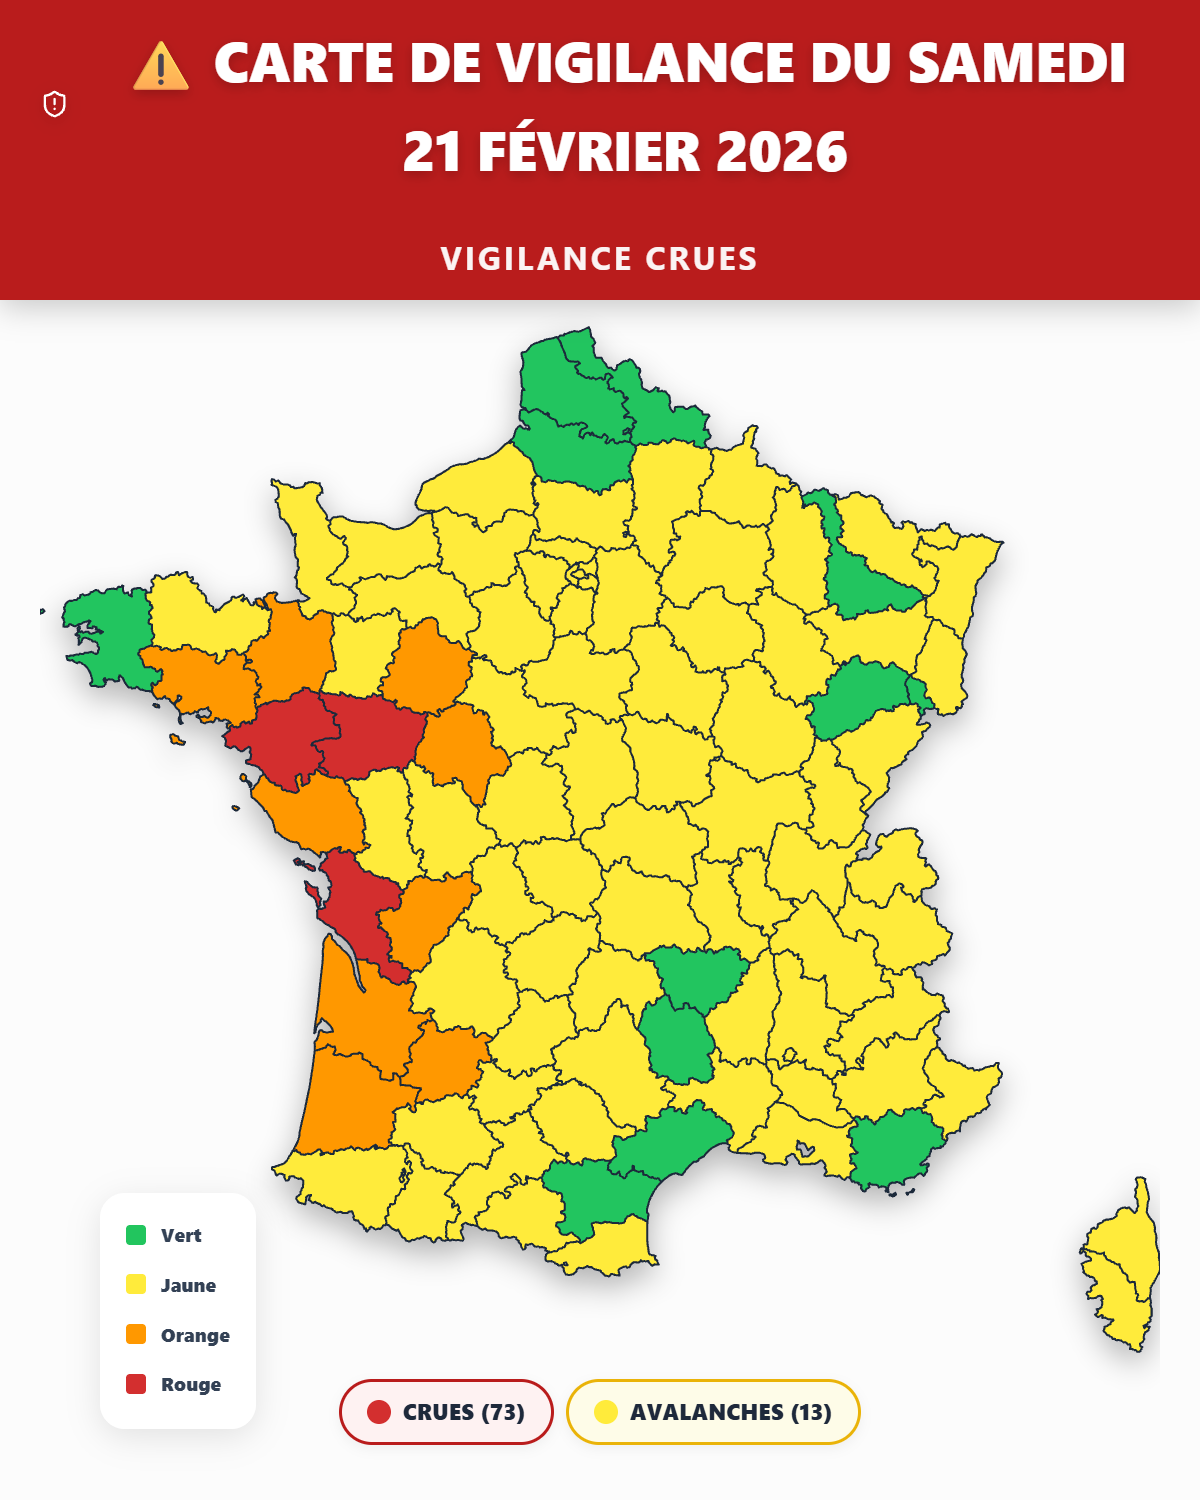
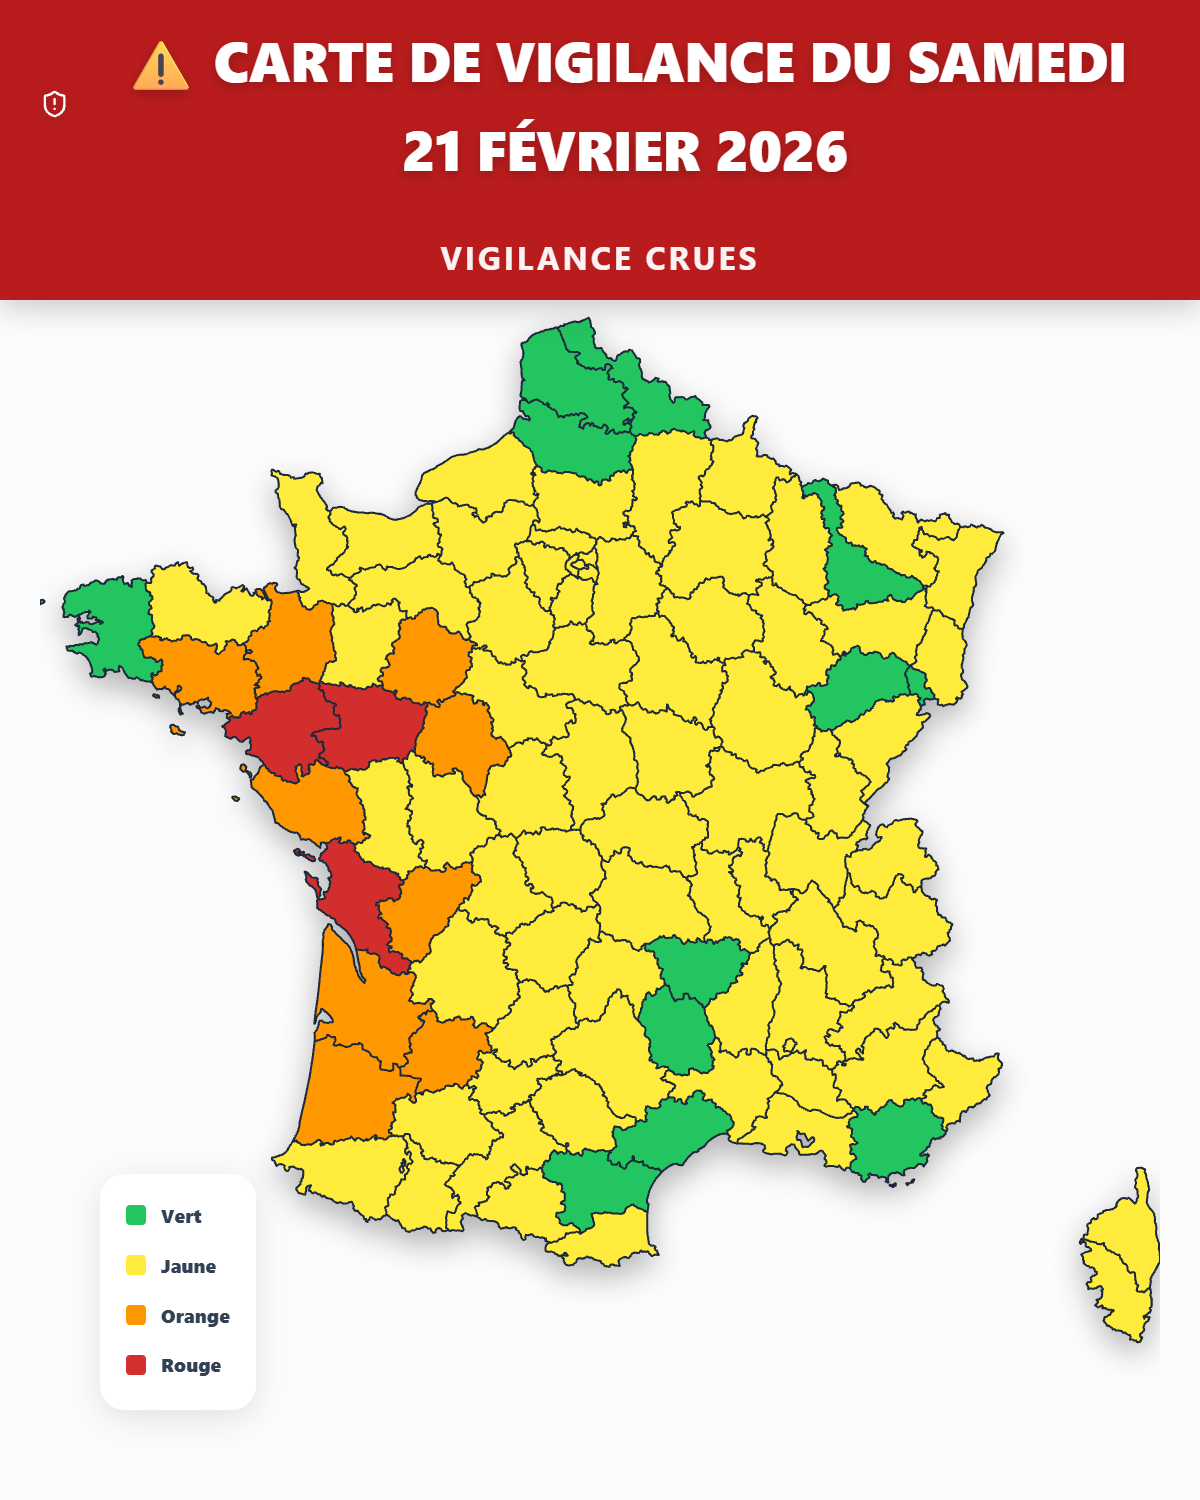
feat: add period URL param support and update bulletin header with date

diff --git a/src/modules/vigilance/VigilanceFrance.jsx b/src/modules/vigilance/VigilanceFrance.jsx
@@ -40,7 +40,11 @@ const VigilanceFrance = () => {
     const [geoData, setGeoData] = useState(null);
     const [loading, setLoading] = useState(true);
     const [selectedDep, setSelectedDep] = useState(null);
-    const [period, setPeriod] = useState(0);
+    const [period, setPeriod] = useState(() => {
+        const params = new URLSearchParams(window.location.search);
+        const p = params.get('period');
+        return p !== null ? parseInt(p) : 0;
+    });
     const [selectedPhenom, setSelectedPhenom] = useState(null);
     const [localData, setLocalData] = useState({ stations: [], obs: [] });
     const [localLoading, setLocalLoading] = useState(false);
@@ -199,7 +203,16 @@ const VigilanceFrance = () => {
             sections.push(`🟡 Vigilance JAUNE – ${yellowParts.join(", ")}.`);
         }
 
-        return sections.join("\n\n").trim();
+        const now = new Date();
+        const targetDate = new Date(now);
+        if (period === 1) targetDate.setDate(now.getDate() + 1);
+        const dateStr = targetDate.toLocaleDateString('fr-FR', {
+            weekday: 'long', day: 'numeric', month: 'long', year: 'numeric'
+        }).toUpperCase();
+
+        const header = `📋 VIGILANCE MÉTÉOROLOGIQUE DU ${dateStr}\n━━━━━━━━━━━━━━━━━━━━━━━━━━━━━━━━━━━━━━━━\n\n`;
+
+        return header + (sections.length > 0 ? sections.join("\n\n").trim() : "✅ RAS : Aucune vigilance particulière sur le territoire.");
     }, [vigilanceData, geoData, period]);
 
     const projection = useMemo(() => {